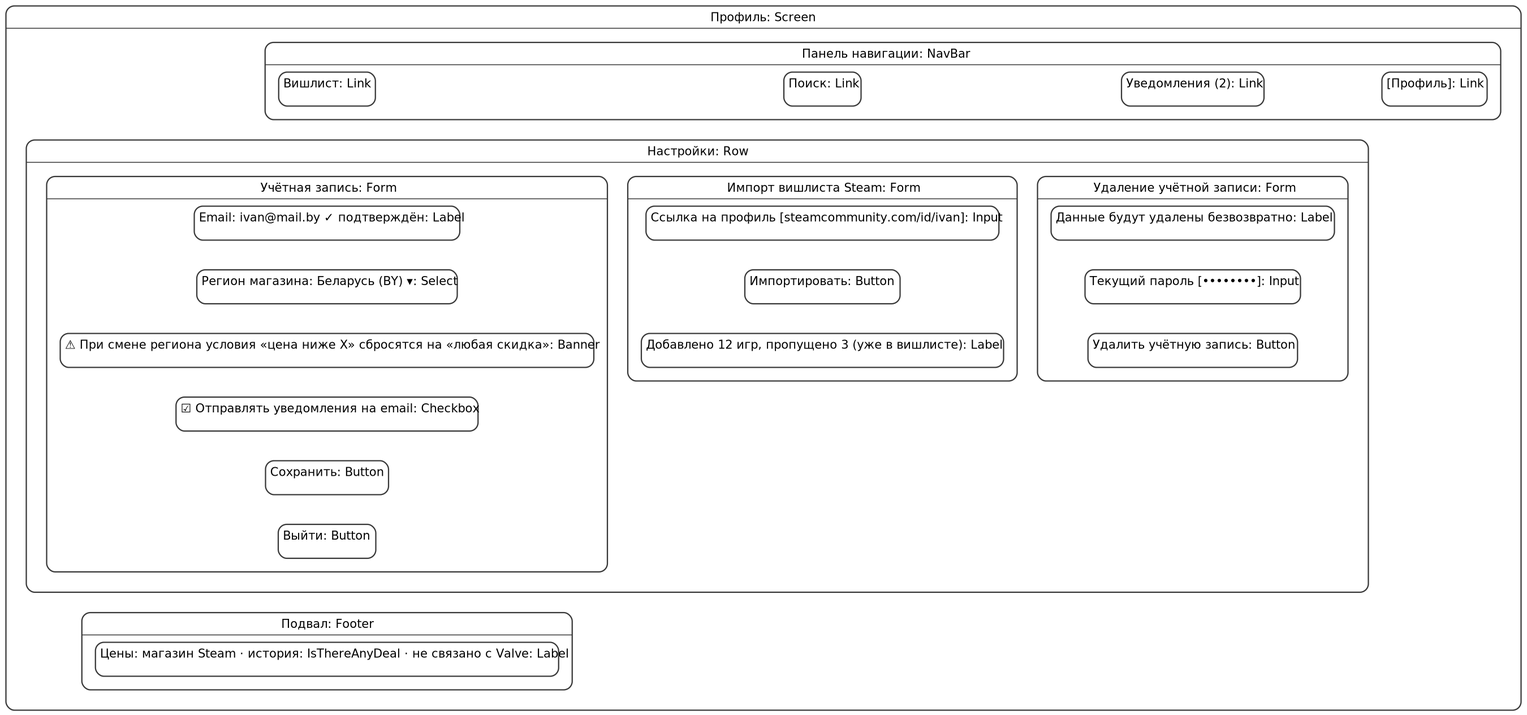
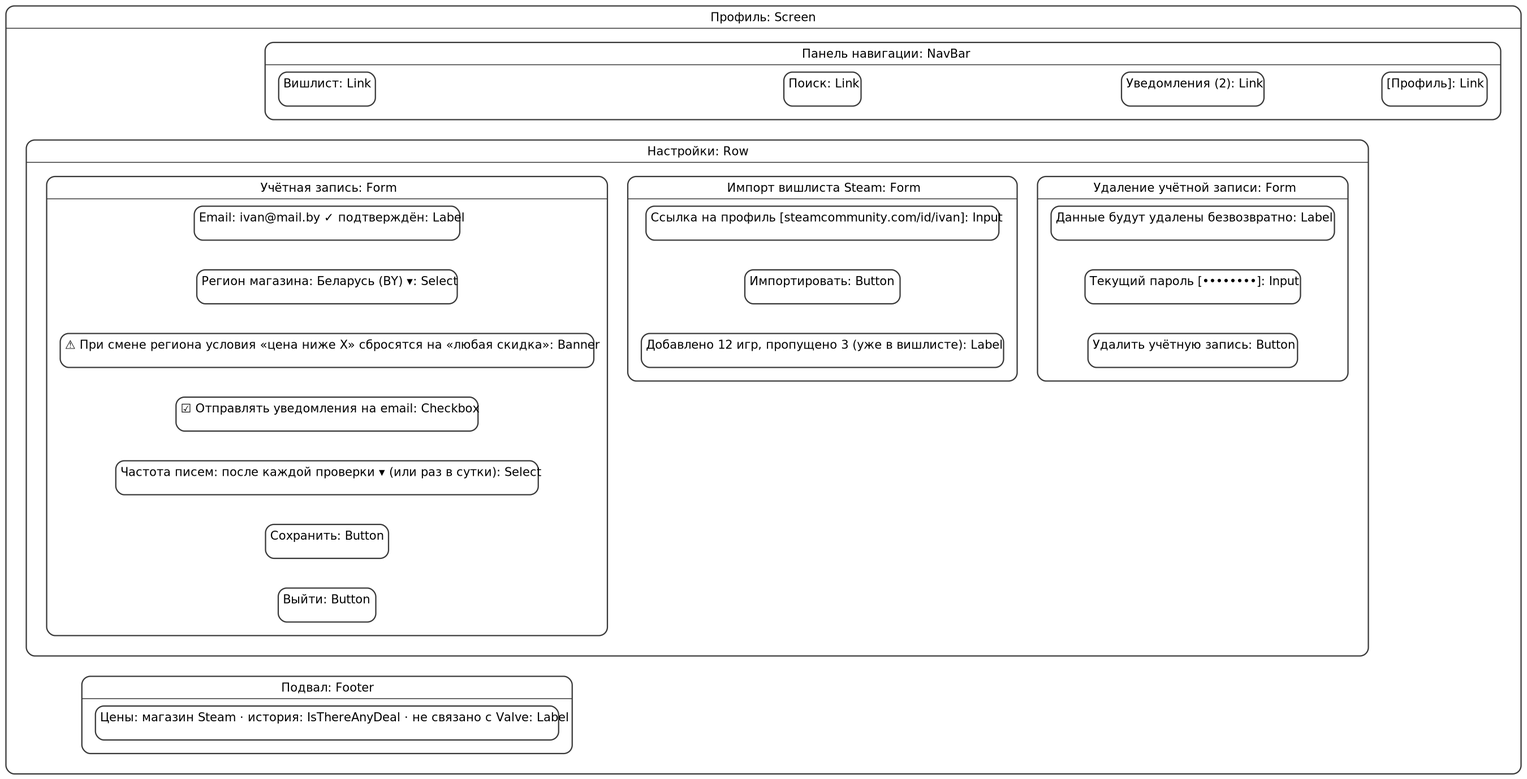
docs(srs): правки по замечаниям Заказчика (PR #1)
- период опроса по умолчанию 3 часа, лимит вишлиста 500 игр
- частота email-писем: после каждой проверки или раз в сутки; макет профиля
- стоимость R1 — 0 USD, без платного хостинга
- закрыты открытые вопросы 1 (регионы) и 3 (Steam OpenID)
- составные условия и английский интерфейс перенесены в R2
- версия SRS 0.2

Changed region(s): [[0.0311, 0.0, 0.9956, 0.9873]]

diff --git a/srs/srs.md b/srs/srs.md
@@ -2,7 +2,7 @@
 
 Для веб-сервиса «Охотник за скидками в Steam»
 
-Версия 0.1
+Версия 0.2
 
 Подготовил Бутор К. П., гр. 450503
 
@@ -72,7 +72,7 @@
 | Name | Date | Reason For Changes | Version |
 |------|------|--------------------|---------|
 | Бутор К. П. | 10.10.2026 | Первоначальная версия по результатам интервью с Заказчиком (Воронцов И. С.) | 0.1 |
-|      |      |                    |         |
+| Бутор К. П. | 10.10.2026 | Правки по замечаниям Заказчика в PR #1: период опроса, лимит вишлиста, частота писем, стоимость, закрыты открытые вопросы 1 и 3 | 0.2 |
 
 ---
 
@@ -127,7 +127,9 @@
 - вход через аккаунт Steam (Steam OpenID) — отложено до R2;
 - уведомления в Telegram, push-уведомления, мобильное приложение;
 - премиум-подписка и партнёрские ссылки (BG-4) — отложено до R2+;
-- конвертация цен между валютами.
+- конвертация цен между валютами;
+- составные условия уведомления (несколько условий для одной игры) — отложено до R2;
+- интерфейс на английском языке — отложено до R2.
 
 ### 1.3 Определения, акронимы и сокращения {#13-definitions-acronyms-and-abbreviations}
 
@@ -277,6 +279,8 @@
 | Вход через Steam OpenID | | | | | R2 (отложено) |
 | Сравнение цен в других магазинах (ITAD) | | | | | R2 (отложено) |
 | Уведомления в Telegram | | | | | R2 (отложено) |
+| Составные условия уведомления | | | | | R2 (отложено) |
+| Английская локализация интерфейса | | | | | R2 (отложено) |
 | Премиум-функции, партнёрские ссылки (BG-4) | | | | | R2+ (отложено) |
 
 ---
@@ -306,7 +310,7 @@
 - **Rationale:** Целевая аудитория R1 — русскоязычные пользователи (BY, RU, KZ).
 - **Acceptance Criteria:** При инспекции всех экранов из таблицы выше и всех шаблонов писем не обнаружено текстов на другом языке, кроме названий игр и собственных имён.
 - **Verification Method:** Inspection
-- **More Information:** Источник — интервью с Заказчиком.
+- **More Information:** Источник — интервью с Заказчиком. Тексты интерфейса и писем выносятся в файлы локализации, чтобы в R2 добавить английский язык без изменения кода экранов.
 
 - **ID:** REQ-INT-002
 - **Title:** Общая компоновка
@@ -427,16 +431,16 @@
 - **ID:** REQ-FUNC-005
 - **Title:** Выбор региона
 - **Statement:** Система должна позволять пользователю выбрать регион магазина Steam из списка поддерживаемых: BY, RU, KZ, US, PL. Цены, история цен и условия уведомлений пользователя должны отображаться и проверяться для выбранного региона. При смене региона Система должна предупредить, что условия вида «цена ниже X» будут сброшены на «любая скидка», так как валюта может измениться, и выполнить сброс после подтверждения.
-- **Rationale:** Цены, валюты и доступность игр в Steam различаются по регионам (A-8); выбор за пользователем — решение Заказчика.
+- **Rationale:** Цены, валюты и доступность игр в Steam различаются по регионам (A-8); выбор за пользователем — решение Заказчика. Условие «цена ниже X» не пересчитывается по курсу, так как региональные цены Steam устанавливаются Valve для каждого региона и не равны пересчёту по курсу валют.
 - **Acceptance Criteria:** После смены региона с BY на PL цены в вишлисте отображаются в злотых; условия «цена ниже X» сброшены; условия других типов сохранены.
 - **Verification Method:** Test
-- **More Information:** Список регионов задаётся конфигурацией; окончательный состав — TBD (Приложение Д). Признак поддержки ITAD в R1: US, PL — да; BY, RU, KZ — нет.
+- **More Information:** Список регионов задаётся конфигурацией; состав BY, RU, KZ, US, PL подтверждён Заказчиком 10.10.2026 (Приложение Д). Признак поддержки ITAD в R1: US, PL — да; BY, RU, KZ — нет.
 
 - **ID:** REQ-FUNC-006
 - **Title:** Настройки уведомлений
-- **Statement:** Система должна позволять пользователю включить или отключить email-уведомления; при отключении уведомления продолжают появляться в центре уведомлений на сайте.
-- **Rationale:** Пользователь контролирует объём писем.
-- **Acceptance Criteria:** При отключённых email-уведомлениях после срабатывания условия письмо не отправляется, а уведомление появляется на сайте.
+- **Statement:** Система должна позволять пользователю включить или отключить email-уведомления и выбрать частоту писем: «после каждой проверки» (по умолчанию) или «раз в сутки». При отключении уведомления продолжают появляться в центре уведомлений на сайте.
+- **Rationale:** Пользователь контролирует объём писем; при больших вишлистах во время распродаж письма после каждого цикла могут приходить несколько раз в день.
+- **Acceptance Criteria:** При отключённых email-уведомлениях после срабатывания условия письмо не отправляется, а уведомление появляется на сайте; при частоте «раз в сутки» за сутки отправляется не более одного письма.
 - **Verification Method:** Test
 
 - **ID:** REQ-FUNC-007
@@ -475,7 +479,7 @@
 
 - **ID:** REQ-FUNC-011
 - **Title:** Добавление игры в вишлист
-- **Statement:** Система должна позволять добавить игру в вишлист из результатов поиска или по ссылке. Одна игра может присутствовать в вишлисте пользователя не более одного раза. Вишлист пользователя должен вмещать не менее 200 игр; при достижении лимита добавление отклоняется с сообщением.
+- **Statement:** Система должна позволять добавить игру в вишлист из результатов поиска или по ссылке. Одна игра может присутствовать в вишлисте пользователя не более одного раза. Вишлист пользователя должен вмещать не менее 500 игр; при достижении лимита добавление отклоняется с сообщением.
 - **Rationale:** Основная сущность продукта; лимит ограничивает нагрузку на Steam API (REQ-INT-007).
 - **Acceptance Criteria:** Добавленная игра появляется в вишлисте с условием «любая скидка»; повторное добавление отклоняется с сообщением «Игра уже в вишлисте»; при импорте сверх лимита добавляются первые игры по приоритету вишлиста Steam, остальные учитываются как пропущенные.
 - **Verification Method:** Test
@@ -520,7 +524,7 @@
 
 - **ID:** REQ-FUNC-017
 - **Title:** Периодический сбор цен
-- **Statement:** Система должна с периодом, задаваемым конфигурацией (по умолчанию 6 часов, допустимо от 1 до 24 часов), выполнять цикл опроса: получать из Steam текущую цену, обычную цену и процент скидки для каждой уникальной пары (игра, регион), присутствующей хотя бы в одном вишлисте. Каждая пара запрашивается не более одного раза за цикл независимо от числа пользователей, отслеживающих игру.
+- **Statement:** Система должна с периодом, задаваемым конфигурацией (по умолчанию 3 часа, допустимо от 1 до 24 часов), выполнять цикл опроса: получать из Steam текущую цену, обычную цену и процент скидки для каждой уникальной пары (игра, регион), присутствующей хотя бы в одном вишлисте. Каждая пара запрашивается не более одного раза за цикл независимо от числа пользователей, отслеживающих игру.
 - **Rationale:** Ядро продукта; опрос по уникальным парам минимизирует число запросов к Steam (REQ-INT-007).
 - **Acceptance Criteria:** Если игру отслеживают 3 пользователя в регионе BY и 1 в регионе US, за цикл выполняется ровно 2 запроса цены этой игры (по одному на регион, с учётом пакетирования); цикл запускается автоматически по расписанию.
 - **Verification Method:** Test
@@ -589,13 +593,13 @@
 - **ID:** REQ-FUNC-026
 - **Title:** Защита от повторных уведомлений
 - **Statement:** Система не должна создавать повторное уведомление пользователю по той же игре, пока итоговая цена не изменится. После окончания скидки и последующего нового выполнения условия уведомление создаётся снова.
-- **Rationale:** Без этого при периоде опроса 6 часов пользователь получал бы одно и то же уведомление 4 раза в сутки на протяжении всей распродажи.
+- **Rationale:** Без этого при периоде опроса 3 часа пользователь получал бы одно и то же уведомление 8 раз в сутки на протяжении всей распродажи.
 - **Acceptance Criteria:** При неизменной цене со скидкой в течение 5 циклов создаётся одно уведомление; при дополнительном снижении цены — ещё одно; после окончания скидки и новой распродажи — ещё одно.
 - **Verification Method:** Test
 
 - **ID:** REQ-FUNC-027
 - **Title:** Email-уведомление
-- **Statement:** Система должна отправлять пользователю с подтверждённым email и включёнными email-уведомлениями не более одного письма-дайджеста за цикл опроса, содержащего все созданные за цикл уведомления. Для каждой игры в письме указываются название, итоговая и обычная цена, процент скидки, отметка «исторический минимум» при её наличии и ссылка на страницу игры в Steam. Письмо должно содержать ссылку отписки от email-уведомлений (REQ-FUNC-029).
+- **Statement:** Система должна отправлять пользователю с подтверждённым email и включёнными email-уведомлениями письма-дайджесты с частотой, выбранной в настройках (REQ-FUNC-006): при частоте «после каждой проверки» — не более одного письма за цикл опроса со всеми уведомлениями цикла, при частоте «раз в сутки» — одно письмо в 10:00 по времени Минска (UTC+3) со всеми уведомлениями за прошедшие 24 часа. Для каждой игры в письме указываются название, итоговая и обычная цена, процент скидки, отметка «исторический минимум» при её наличии и ссылка на страницу игры в Steam. Письмо должно содержать ссылку отписки от email-уведомлений (REQ-FUNC-029).
 - **Rationale:** Сводное письмо вместо десятков отдельных писем во время крупных распродаж (персона «Коллекционер»).
 - **Acceptance Criteria:** При срабатывании условий по 5 играм за один цикл пользователь получает одно письмо с 5 позициями; пример строки: «Elden Ring: −40 %, $23.99 (было $39.99) — исторический минимум!».
 - **Verification Method:** Test
@@ -986,9 +990,9 @@
 
 - **ID:** REQ-COST-001
 - **Title:** Бесплатные внешние сервисы
-- **Statement:** Использование внешних сервисов (Steam API, ITAD API, SMTP) в R1 должно быть бесплатным; расходы на хостинг, если он потребуется, не должны превышать 10 USD в месяц.
+- **Statement:** Использование внешних сервисов (Steam API, ITAD API, SMTP) в R1 должно быть бесплатным. Платный хостинг в R1 не используется: Система размещается на компьютере разработчика или на бесплатном тарифе хостинга (REQ-INST-001); стоимость эксплуатации R1 — 0 USD.
 - **Rationale:** Учебный проект без бюджета (C-9).
-- **Acceptance Criteria:** Все используемые ключи и тарифы бесплатны; расчёт стоимости хостинга ≤ 10 USD/мес.
+- **Acceptance Criteria:** Все используемые ключи и тарифы бесплатны; демонстрация выполняется без платных сервисов.
 - **Verification Method:** Analysis
 
 #### 3.5.8 Сроки {#358-deadline}
@@ -1183,7 +1187,7 @@
 
 | Сущность | Основные атрибуты | Примечание |
 |----------|-------------------|------------|
-| Пользователь | email, хэш пароля, регион, email подтверждён, email-уведомления включены, ссылка на профиль Steam, SteamID64, дата регистрации | Персональные данные (REQ-SEC-010) |
+| Пользователь | email, хэш пароля, регион, email подтверждён, email-уведомления включены, частота писем (после каждой проверки / раз в сутки), ссылка на профиль Steam, SteamID64, дата регистрации | Персональные данные (REQ-SEC-010) |
 | Регион | код (`cc`), название, поддерживается ITAD | BY, RU, KZ, US, PL |
 | Игра | appid, ID в ITAD, название, URL обложки | Общая для всех пользователей |
 | Элемент вишлиста | пользователь, игра, тип условия, параметр условия (N или X), дата добавления, последняя уведомлённая цена | Уникален по паре (пользователь, игра) |
@@ -1235,7 +1239,7 @@
 
 | № | Вопрос | Текущее допущение | Ответственный | Срок |
 |---|--------|-------------------|---------------|------|
-| 1 | Окончательный список поддерживаемых регионов | BY, RU, KZ, US, PL | Заказчик | До M1 |
+| 1 | Окончательный список поддерживаемых регионов | **Решено 10.10.2026:** BY, RU, KZ, US, PL (подтверждено Заказчиком в PR #1) | Заказчик | До M1 |
 | 2 | Почтовый провайдер SMTP | Любой бесплатный SMTP, выбирается в SDD | Разработчик | M2 |
-| 3 | Вход через Steam OpenID | Отложен до R2 | Заказчик | До M3 |
+| 3 | Вход через Steam OpenID | **Решено 10.10.2026:** отложен до R2 (подтверждено Заказчиком в PR #1) | Заказчик | До M3 |
 | 4 | Максимальный размер пакетного запроса `appdetails` | Определяется в REQ-POC-002 | Разработчик | До M3 |
